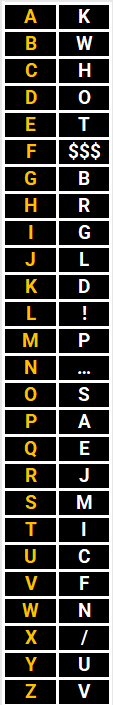
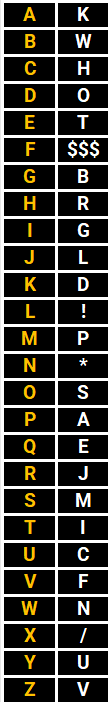
first commit

Changed region(s): [[0.027, 0.0, 0.4865, 1.0], [0.5135, 0.0, 0.973, 1.0]]

diff --git a/index.html b/index.html
@@ -57,7 +57,7 @@
               
               function check(form)
                 {
-                  if(form.passphrase.value == "STARKKNOWSTHIS..." || form.passphrase.value == "Starkknowsthis..." || form.passphrase.value == "starkknowsthis..." )
+                  if(form.passphrase.value == "STARKKNOWSTHIS*" || form.passphrase.value == "Starkknowsthis*" || form.passphrase.value == "starkknowsthis*" )
                     {
                       window.open('./message.html')
                     }

diff --git a/resources/css/index.css b/resources/css/index.css
@@ -36,7 +36,12 @@ h5 {
   transform: translate(-50%, -50%);
 }
 
-
+.btn, .banner {
+  box-shadow: 0 2px 12px rgba(0,6,12,.5);
+  -moz-box-shadow: 0 2px 12px rgba(0,6,12,.5);
+  -webkit-box-shadow: 0 2px 12px rgba(0,6,12,.5);
+  -khtml-box-shadow: 0 2px 12px rgba(0,6,12,.5);
+}
 
 .btn, .page-title, .section-header, .nav-item {
   font-weight: 700;
